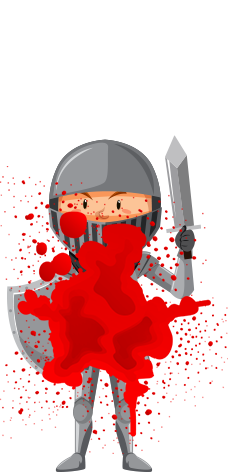
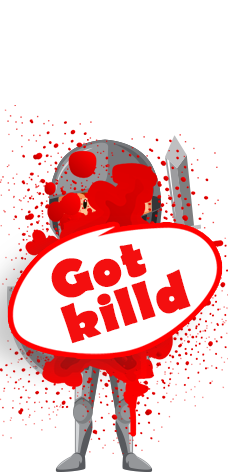
Graphic changes (Mahesh)

diff --git a/js/scene3.js b/js/scene3.js
@@ -74,26 +74,27 @@
 
 
 
-      function firePit() {
-        var firePitImg = new Image(); //make image object for pirateUp
-        firePitImg.src = "./Images/fire pit.png"; // set the image file path for pirateUp
-        ctx.drawImage(firePitImg, 350, 450, 550, 150); // Image Height and Width for pirateUp
-      }
+      
 
 
 
       function enemy() {
         var enemyImg = new Image(); //make image object for pirateUp
-        enemyImg.src = "./Images/enemy.jpg"; // set the image file path for pirateUp
-        ctx.drawImage(enemyImg, 200, 20, 40, 70); // Image Height and Width for pirateUp
+        enemyImg.src = "./Images/enemy.png"; // set the image file path for pirateUp
+        ctx.drawImage(enemyImg, 165, 5, 80, 140); // Image Height and Width for pirateUp
+      }
 
+      function bloodBalloon(){
+        var enemyImg = new Image(); //make image object for baloon got hit
+        enemyImg.src = "./Images/balloon-blood.png"; // set the image file path for baloon got hit
+        ctx.drawImage(enemyImg, bx, by, 200, 300); // Image Height and Width for baloon got hit
+      }
 
-    
-  }
-
-
-
-
+      function gotKilled(){
+        var enemyImg = new Image(); //make image object for got hit
+        enemyImg.src = "./Images/got-killed.png"; // set the image file path for got hit
+        ctx.drawImage(enemyImg, bx, by, 200, 300); // Image Height and Width for got hit
+      }
 
 
   var bulletX = 200;
@@ -103,14 +104,12 @@
   function bulltes(){
     // Draw the bullet
     ctx.beginPath();
-    ctx.arc(bulletX, bulletY, 5, 0, Math.PI * 2);
+    ctx.arc(bulletX, bulletY, 7, 0, Math.PI * 2);
     ctx.fillStyle = "red";
     ctx.fill();
     ctx.closePath();
+    
   }
-
-
-
 
 
   function updateBulletPosition() {
@@ -122,25 +121,10 @@
       var normalizedDirectionX = directionX / magnitude;
       var normalizedDirectionY = directionY / magnitude;
 
-      var bulletSpeed = 5; // Adjust the speed as needed
+      var bulletSpeed = 4; // Adjust the speed as needed
 
       bulletX += normalizedDirectionX * bulletSpeed;
       bulletY += normalizedDirectionY * bulletSpeed;
-/*
-      // Check for collision with balloon
-      if (
-        bulletX >= bx &&
-        bulletX <= bx + 200 &&
-        bulletY >= by &&
-        bulletY <= by + 300
-      ) {
-        bulletHit = true;
-        // Stop the movement of the balloon
-        bSPEED = 0;
-        // Call heroDead() function
-        //heroDead();.
-        
-      }*/
     }
   }
 
@@ -152,7 +136,7 @@
     if (!bulletHit && Math.random() < 0.01) {
       // Adjust the probability (0.01) as needed
       bulletX = 200; // Fixed X position within the canvas
-      bulletY = 20; // Start the bullet from the top of the canvas
+      bulletY = 40; // Start the bullet from the top of the canvas
       bulletHit = false;
     }
   }
@@ -206,9 +190,7 @@
             hx += SPEED;
           }
         }
-
-
-        
+     
       }
       /* ===================================================| / Hero moving controls |=================================================== */
 
@@ -264,7 +246,8 @@
     // Stop the movement of the balloon
     bSPEED = 0;
     // Call heroDead() function
-    heroDead();
+    bloodBalloon();
+    gotKilled();
   }
 
       
@@ -274,12 +257,6 @@
 
 
     /* ===================================================| / Balloon moving controls |=================================================== */
-
-
-
-
-
-
       function clear() {
         ctx.drawImage(backgroundimage, 0, 0, cnv.width, cnv.height); // Image Height and Width
       
@@ -300,7 +277,6 @@
       function draw() {
         gasBallon();
         dungeon();
-        firePit();
       
         if (!bulletHit) {
           bulltes(); // Call the function to draw the bullet
@@ -314,12 +290,7 @@
             heroOnGasBallon();
           }
         }
-      
-      
-      
-      
-
-
+   
 
       function Loop() {
         clear();
@@ -335,10 +306,7 @@
         if (!heroStatus) {
           updateBulletPosition();
         }
-        
 
-
-        
 
         setTimeout(Loop, 20); //call loop every 20 milliseconds
       } //end loop

diff --git a/js/scene2.js b/js/scene2.js
@@ -14,7 +14,7 @@ function init() {
 
   // Coordinates and speed of Hero (Player)
   var hx = 10; // Hero X coordinate
-  var hy = 150; // Hero Y coordinate
+  var hy = 230; // Hero Y coordinate
   var SPEED = 5;
 
   // Coordinates of Bat (Monster)
@@ -28,27 +28,27 @@ function init() {
   function bat() {
     var batFly = new Image(); //make image object for Bat
     batFly.src = "./Images/bat.png"; // set the image file path for Bat
-    ctx.drawImage(batFly, cx, cy, 250, 200); // Image Height and Width for Bat
+    ctx.drawImage(batFly, cx, cy, 200, 100); // Image Height and Width for Bat
   }
 
 
   function heroUp() {
     var heroUp = new Image(); //make image object for pirateUp
     heroUp.src = "./Images/hero-sword.png"; // set the image file path for pirateUp
-    ctx.drawImage(heroUp, hx, hy, 200, 400); // Image Height and Width for pirateUp
+    ctx.drawImage(heroUp, hx, hy, 150, 325); // Image Height and Width for pirateUp
   }
 
 
   function heroFire() {
     var heroFire = new Image(); //make image object for pirateUp
     heroFire.src = "./Images/hero-torch.png"; // set the image file path for pirateUp
-    ctx.drawImage(heroFire, hx, hy, 200, 400); // Image Height and Width for pirateUp
+    ctx.drawImage(heroFire, hx, hy, 150, 325); // Image Height and Width for pirateUp
   }
 
   function heroDead() {
     var heroDead = new Image(); //make image object for pirateUp
     heroDead.src = "./Images/hero-blood.png"; // set the image file path for pirateUp
-    ctx.drawImage(heroDead, hx , hy - 5,200, 400); // Image Height and Width for pirateUp
+    ctx.drawImage(heroDead, hx , hy - 5,150, 325); // Image Height and Width for pirateUp
   }
 
   function dungeon() {
@@ -57,6 +57,12 @@ function init() {
     ctx.drawImage(pirateDead, 900, 150, 700, 400); // Image Height and Width for pirateUp
   }
 
+  function goAway()
+      {
+            var pirateDead = new Image(); //make image object for pirateUp
+            pirateDead.src = "./Images/go-away.png"; // set the image file path for pirateUp
+            ctx.drawImage(pirateDead, hx+95, hy+ 95, 200,70); // Image Height and Width for pirateUp
+      }
 
 
 
@@ -70,7 +76,7 @@ function init() {
     var dy = hy - cy; // Calculate the difference in Y positions
     var distance = Math.sqrt(dx * dx + dy * dy); // Calculate the distance between the bat and the hero
   
-    var angle = Math.atan2(dy, dx);
+    var angle = Math.atan2(dy + 50, dx + 5);
   
     // Calculate the movement speed of the bat
     var speed = 2;
@@ -79,7 +85,7 @@ function init() {
       // If heroStatus is "fire" and bat is near the hero
       // Move the bat away from the hero
       speed *= -1; // Reverse the direction of movement
-    }else if (distance < 100) {
+    }else if (distance < 50) {
       // If bat is near the hero without heroStatus being "fire"
       // Set heroStatus to false
     heroStatus = false;
@@ -189,6 +195,7 @@ function init() {
       heroDead();
     } else if (heroStatus == "fire") {
       heroFire();
+      goAway();
     }
 
     bat();

diff --git a/js/scene1.js b/js/scene1.js
@@ -70,30 +70,30 @@
 
       function heroUp()
       {
-            var heroUp = new Image(); //make image object for HeroUp
-            heroUp.src = "./Images/hero-scene1.png"; // set the image file path for HeroUp
-            ctx.drawImage(heroUp, hx, hy, 100,200); // Image Height and Width for HeroUp
+            var heroUp = new Image(); //make image object for pirateUp
+            heroUp.src = "./Images/hero-scene1.png"; // set the image file path for pirateUp
+            ctx.drawImage(heroUp, hx, hy, 100,200); // Image Height and Width for pirateUp
       }
            
       function heroDead()
       {
-            var heroDead = new Image(); //make image object for 
-            heroDead.src = "./Images/hero-dead-scene1.png"; // set the image file path
-            ctx.drawImage(heroDead, hx-47, hy-5, 170,220); // Image Height and Width 
+            var heroDead = new Image(); //make image object for pirateUp
+            heroDead.src = "./Images/hero-dead-scene1.png"; // set the image file path for pirateUp
+            ctx.drawImage(heroDead, hx-47, hy-5, 170,220); // Image Height and Width for pirateUp
       }
 
       function cantSee()
       {
-            var pirateDead = new Image(); //make image object 
-            pirateDead.src = "./Images/cant-see.png"; // set the image file path 
-            ctx.drawImage(pirateDead, hx+100, hy, 200,70); // Image Height and Width 
+            var pirateDead = new Image(); //make image object for pirateUp
+            pirateDead.src = "./Images/cant-see.png"; // set the image file path for pirateUp
+            ctx.drawImage(pirateDead, hx+100, hy, 200,70); // Image Height and Width for pirateUp
       }
 
       function dungeon()
       {
-            var pirateDead = new Image(); //make image object 
-            pirateDead.src = "./Images/dungeon.png"; // set the image file path 
-            ctx.drawImage(pirateDead, 900, 270, 500,300); // Image Height and Width 
+            var pirateDead = new Image(); //make image object for pirateUp
+            pirateDead.src = "./Images/dungeon.png"; // set the image file path for pirateUp
+            ctx.drawImage(pirateDead, 900, 270, 500,300); // Image Height and Width for pirateUp
       }
 
       function shootHero()
